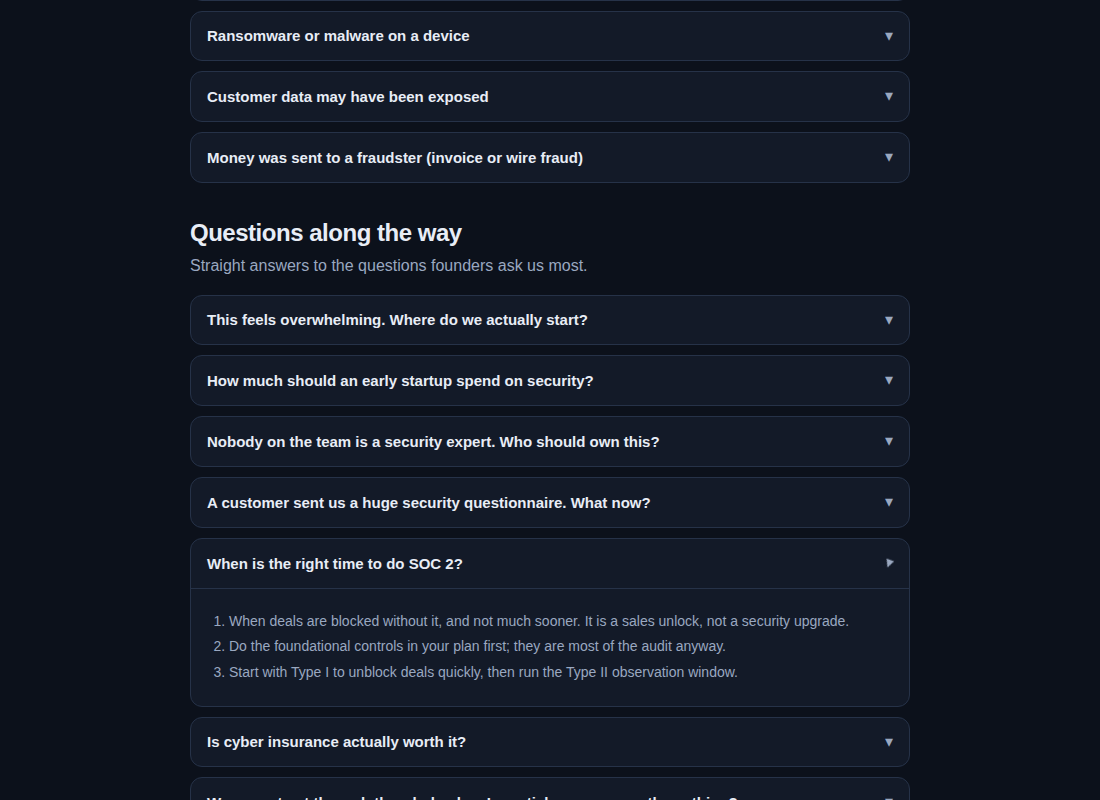
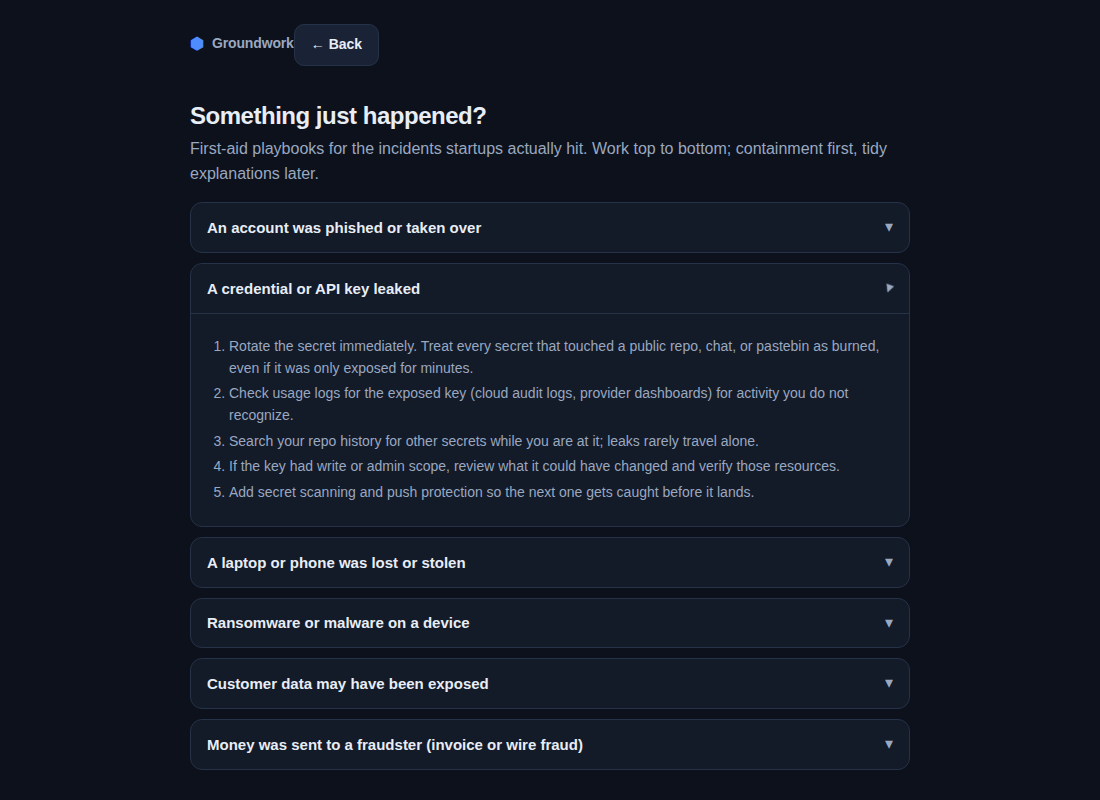
Remove advisory callout from the incident help section
Claude-Session: https://claude.ai/code/session_01PLEMYzj4Zdoeyj1TBuHLvg

Changed region(s): [[0.1545, 0.2812, 0.8345, 0.9375], [0.1545, 0.0, 0.8036, 0.25], [0.8036, 0.3438, 0.8345, 0.375]]

diff --git a/groundwork/src/styles.css b/groundwork/src/styles.css
@@ -206,15 +206,6 @@ h3 {
   color: var(--text-dim);
   margin: 0 0 16px;
 }
-.help-callout {
-  background: rgba(240, 180, 41, 0.09);
-  border: 1px solid rgba(240, 180, 41, 0.35);
-  border-radius: var(--radius);
-  padding: 14px 16px;
-  font-size: 14px;
-  color: var(--text);
-  margin-bottom: 16px;
-}
 
 /* ───────── Wizard ───────── */
 .wizard {

diff --git a/groundwork/src/components/Help.tsx b/groundwork/src/components/Help.tsx
@@ -53,12 +53,6 @@ export function Help({ onBack, backLabel }: Props) {
           First-aid playbooks for the incidents startups actually hit. Work
           top to bottom; containment first, tidy explanations later.
         </p>
-        <div className="help-callout">
-          If money, health data, or a live intrusion is involved, get
-          professionals on the line early: your cyber insurer's hotline if
-          you have one, an incident response firm if you do not. These steps
-          buy you time; they are not a substitute for expert help.
-        </div>
         {INCIDENT_PLAYBOOKS.map((entry) => (
           <HelpAccordion key={entry.id} entry={entry} />
         ))}